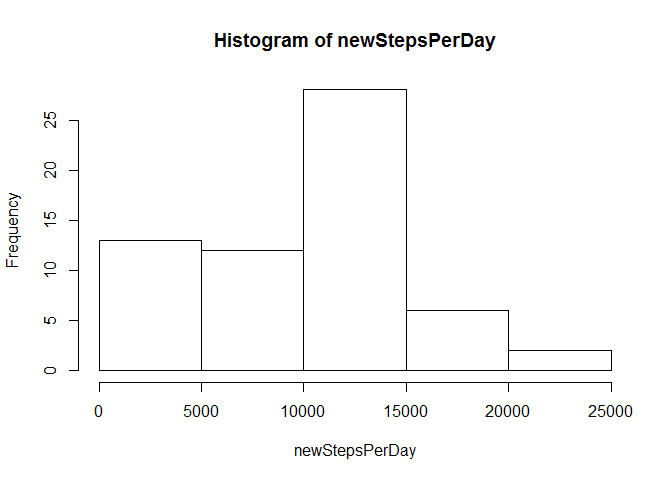
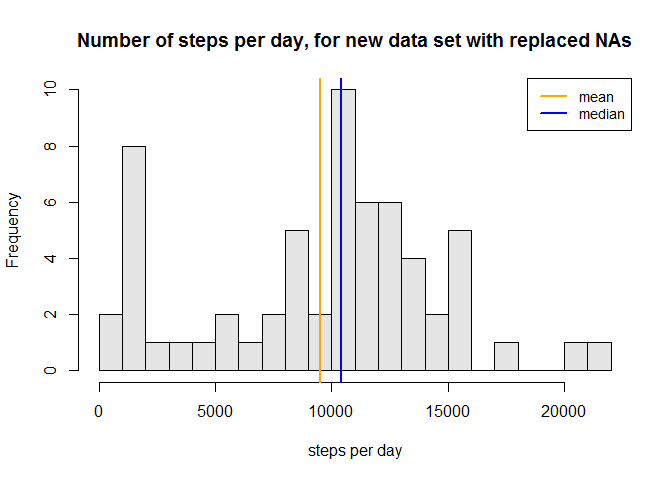
changed the last panel plot

diff --git a/PA1_template.html b/PA1_template.html
@@ -68,11 +68,11 @@ img {
 <h2>Loading and preprocessing the data</h2>
 <div id="download-unzip-file-write-the-access-date-and-time" class="section level4">
 <h4>Download, unzip file, write the access date and time</h4>
-<p><a href="https://d396qusza40orc.cloudfront.net/repdata%2Fdata%2Factivity.zip">URL for downloading the data</a><br />Data for this report was downloaded: Sat Apr 18 18:25:07 2015</p>
+<p><a href="https://d396qusza40orc.cloudfront.net/repdata%2Fdata%2Factivity.zip">URL for downloading the data</a><br />Data for this report was downloaded: Tue May 12 09:42:09 2015</p>
 </div>
 <div id="read-csv-file" class="section level4">
 <h4>read CSV file</h4>
-<pre class="r"><code>unzip(&quot;activity.zip&quot;)
+<pre class="r"><code>unzip(&quot;repdata_data_activity.zip&quot;)
 givenData&lt;-read.csv(file=&quot;activity.csv&quot;)</code></pre>
 </div>
 </div>
@@ -84,8 +84,11 @@ givenData&lt;-read.csv(file=&quot;activity.csv&quot;)</code></pre>
 </div>
 <div id="make-a-histogram-of-the-total-number-of-steps-taken-each-day" class="section level4">
 <h4>Make a histogram of the total number of steps taken each day</h4>
-<pre class="r"><code>hist(stepsPerDay)</code></pre>
[1 lines of base64/hex data omitted]
+<pre class="r"><code>hist(stepsPerDay, xlab=&quot;steps per day&quot;, breaks=20, col=&quot;grey90&quot;, main=&quot;Total number of steps taken each day&quot;)
+abline(v=mean(stepsPerDay, na.rm=T), lwd=2, col=&quot;orange&quot;)
+abline(v=median(stepsPerDay, na.rm=T), lwd=2, col=&quot;blue&quot;)
+legend(&quot;topright&quot;, lwd=2, cex=.9, col=c(&quot;orange&quot;, &quot;blue&quot;), legend=c(&quot;mean&quot;, &quot;median&quot;))</code></pre>
[1 lines of base64/hex data omitted]
 </div>
 <div id="calculate-the-mean-and-median-of-the-total-number-of-steps-taken-per-day" class="section level4">
 <h4>Calculate the mean and median of the total number of steps taken per day</h4>
@@ -122,8 +125,9 @@ for (i in 1:nrow(givenData)) {
 }</code></pre>
 <p>Total number of missing values in dataset: <strong>2304</strong>.</p>
 </div>
-<div id="create-a-new-dataset-that-is-equal-to-the-original-dataset-but-with-the-missing-data-filled-in.-each-missing-value-will-be-replaced-with-median-value-for-this-5-minute-interval-because-mediana-doesnt-include-maximum-and-minimum-values" class="section level4">
-<h4>Create a new dataset that is equal to the original dataset but with the missing data filled in. Each missing value will be replaced with median value for this 5-minute interval, because mediana doesn’t include maximum and minimum values</h4>
+<div id="create-a-new-dataset-that-is-equal-to-the-original-dataset-but-with-the-missing-data-filled-in." class="section level4">
+<h4>Create a new dataset that is equal to the original dataset but with the missing data filled in.</h4>
+<p>Each missing value will be replaced with median value for this 5-minute interval, because mediana doesn’t depend on extreme values that can be caused by unusual circumstances.</p>
 <pre class="r"><code>medianStepsByInterval&lt;-tapply(givenData$steps, givenData$interval, median, na.rm=T)
 newDF&lt;-givenData
 
@@ -145,9 +149,12 @@ newMedianSteps&lt;-median(newStepsPerDay)</code></pre>
 <li>The mean of the total number of steps taken per day: <strong>9503.8688525</strong>.<br /></li>
 <li>The median of the total number of steps taken per day: <strong>10395</strong>.</li>
 </ul>
-<p>Make a histogram of the total number of steps taken each day.</p>
-<pre class="r"><code>hist(newStepsPerDay)</code></pre>
[1 lines of base64/hex data omitted]
+<p>Make a histogram of the total number of steps taken each day for new data set with replaced missing values.</p>
+<pre class="r"><code>hist(newStepsPerDay, breaks=20, col=&quot;grey90&quot;, main=&quot;Number of steps per day, for new data set with replaced NAs&quot;, xlab=&quot;steps per day&quot;)
+abline(v=newMeanSteps, lwd=2, col=&quot;orange&quot;)
+abline(v=newMedianSteps, lwd=2, col=&quot;blue&quot;)
+legend(&quot;topright&quot;, lwd=2, cex=.9, col=c(&quot;orange&quot;, &quot;blue&quot;), legend=c(&quot;mean&quot;, &quot;median&quot;))</code></pre>
[1 lines of base64/hex data omitted]
 </div>
 <div id="do-new-values-differ-from-the-estimates-from-the-first-part-of-the-report-what-is-the-impact-of-imputing-missing-data-on-the-estimates-of-the-total-daily-number-of-steps" class="section level4">
 <h4>Do new values differ from the estimates from the first part of the report? What is the impact of imputing missing data on the estimates of the total daily number of steps?</h4>
@@ -167,11 +174,30 @@ dayType&lt;-as.factor(dayType)
 levels(dayType)&lt;-c(&quot;weekday&quot;,&quot;weekend&quot;)</code></pre>
 <p>Add new column to dataset</p>
 <pre class="r"><code>newDF$dayType&lt;-dayType</code></pre>
-<p>Make a panel plot containing a time series plot of the 5-minute interval (x-axis) and the average number of steps taken, averaged across all weekday days or weekend days (y-axis).</p>
+<div id="make-a-panel-plot-containing-a-time-series-plot-of-the-5-minute-interval-x-axis-and-the-average-number-of-steps-taken-averaged-across-all-weekday-days-or-weekend-days-y-axis." class="section level4">
+<h4>Make a panel plot containing a time series plot of the 5-minute interval (x-axis) and the average number of steps taken, averaged across all weekday days or weekend days (y-axis).</h4>
+<p>Construct data frame with information need for making a plot.</p>
+<pre class="r"><code>#list of two data frames: data for weekdays are separeted from data for weekends
+splittedByDaytype&lt;-split(newDF, newDF$dayType)  
+
+#operate separetly with data frame for weekdays and data frame for weekends, find average number of steps per interval
+weekdaysData&lt;-splittedByDaytype[[1]]
+weekendsData&lt;-splittedByDaytype[[2]]
+weekdaysData&lt;-tapply(weekdaysData$steps, weekdaysData$interval, mean)
+weekendsData&lt;-tapply(weekendsData$steps, weekendsData$interval, mean)
+
+#constructing factor variable for types of days
+dayType&lt;-rep(&quot;weekday&quot;, length(weekdaysData))
+dayType&lt;-c(dayType, rep(&quot;weekend&quot;, length(weekendsData)))
+
+#construct new data frame which contains 3 variables needed for making plots
+stepsPerIntervalByDaytype&lt;-data.frame(interval=as.integer(c(names(weekdaysData), names(weekendsData))), averageSteps=as.numeric(c(weekdaysData, weekendsData)), dayType=as.factor(dayType))</code></pre>
+<p>Make a panel plot.</p>
 <pre class="r"><code>library(lattice)
-xyplot(steps~interval|dayType, data=newDF, type=&quot;l&quot;,layout = c(1, 2))</code></pre>
[1 lines of base64/hex data omitted]
+xyplot(averageSteps~interval|dayType, data=stepsPerIntervalByDaytype, type=&quot;l&quot;,layout = c(1, 2))</code></pre>
[1 lines of base64/hex data omitted]
 <p>On the whole periods of activity are roughly the same. But weekdays are more intensive. In accordance to the graphics there were some weekdays with large number of steps in the morning, and time between 750 and 1000 is often very active unlike the same perion on the weekend.</p>
+</div>
 </div>
 
 

diff --git a/PA1_template.md b/PA1_template.md
@@ -8,12 +8,12 @@
 ####Download, unzip file, write the access date and time
 
 [URL for downloading the data](https://d396qusza40orc.cloudfront.net/repdata%2Fdata%2Factivity.zip)  
-Data for this report was downloaded: Sat Apr 18 18:25:07 2015
+Data for this report was downloaded: Tue May 12 09:42:09 2015
 
 ####read CSV file
 
 ```r
-unzip("activity.zip")
+unzip("repdata_data_activity.zip")
 givenData<-read.csv(file="activity.csv")
 ```
 
@@ -31,7 +31,10 @@ stepsPerDay<-tapply(givenData$steps, givenData$date, sum, na.rm=T)
 ####Make a histogram of the total number of steps taken each day
 
 ```r
-hist(stepsPerDay)
+hist(stepsPerDay, xlab="steps per day", breaks=20, col="grey90", main="Total number of steps taken each day")
+abline(v=mean(stepsPerDay, na.rm=T), lwd=2, col="orange")
+abline(v=median(stepsPerDay, na.rm=T), lwd=2, col="blue")
+legend("topright", lwd=2, cex=.9, col=c("orange", "blue"), legend=c("mean", "median"))
 ```
 
 ![](PA1_template_files/figure-html/totalStepsHistogram-1.png) 
@@ -83,7 +86,8 @@ for (i in 1:nrow(givenData)) {
 ```
 Total number of missing values in dataset: **2304**.
 
-####Create a new dataset that is equal to the original dataset but with the missing data filled in. Each missing value will be replaced with median value for this 5-minute interval, because mediana doesn't include maximum and minimum values
+####Create a new dataset that is equal to the original dataset but with the missing data filled in. 
+Each missing value will be replaced with median value for this 5-minute interval, because mediana doesn't depend on extreme values that can be caused by unusual circumstances.  
 
 ```r
 medianStepsByInterval<-tapply(givenData$steps, givenData$interval, median, na.rm=T)
@@ -113,10 +117,13 @@ newMedianSteps<-median(newStepsPerDay)
 - The mean of the total number of steps taken per day: **9503.8688525**.  
 - The median of the total number of steps taken per day: **10395**.
 
-Make a histogram of the total number of steps taken each day.
+Make a histogram of the total number of steps taken each day for new data set with replaced missing values.
 
 ```r
-hist(newStepsPerDay)
+hist(newStepsPerDay, breaks=20, col="grey90", main="Number of steps per day, for new data set with replaced NAs", xlab="steps per day")
+abline(v=newMeanSteps, lwd=2, col="orange")
+abline(v=newMedianSteps, lwd=2, col="blue")
+legend("topright", lwd=2, cex=.9, col=c("orange", "blue"), legend=c("mean", "median"))
 ```
 
 ![](PA1_template_files/figure-html/newTotalStepsHistogram-1.png) 
@@ -148,12 +155,36 @@ Add new column to dataset
 newDF$dayType<-dayType
 ```
 
+  
+  
+####Make a panel plot containing a time series plot of the 5-minute interval (x-axis) and the average number of steps taken, averaged across all weekday days or weekend days (y-axis).  
 
-Make a panel plot containing a time series plot of the 5-minute interval (x-axis) and the average number of steps taken, averaged across all weekday days or weekend days (y-axis).
+Construct data frame with information need for making a plot.
+
+```r
+#list of two data frames: data for weekdays are separeted from data for weekends
+splittedByDaytype<-split(newDF, newDF$dayType)  
+
+#operate separetly with data frame for weekdays and data frame for weekends, find average number of steps per interval
+weekdaysData<-splittedByDaytype[[1]]
+weekendsData<-splittedByDaytype[[2]]
+weekdaysData<-tapply(weekdaysData$steps, weekdaysData$interval, mean)
+weekendsData<-tapply(weekendsData$steps, weekendsData$interval, mean)
+
+#constructing factor variable for types of days
+dayType<-rep("weekday", length(weekdaysData))
+dayType<-c(dayType, rep("weekend", length(weekendsData)))
+
+#construct new data frame which contains 3 variables needed for making plots
+stepsPerIntervalByDaytype<-data.frame(interval=as.integer(c(names(weekdaysData), names(weekendsData))), averageSteps=as.numeric(c(weekdaysData, weekendsData)), dayType=as.factor(dayType))
+```
+  
+  
+  Make a panel plot.
 
 ```r
 library(lattice)
-xyplot(steps~interval|dayType, data=newDF, type="l",layout = c(1, 2))
+xyplot(averageSteps~interval|dayType, data=stepsPerIntervalByDaytype, type="l",layout = c(1, 2))
 ```
 
 ![](PA1_template_files/figure-html/panelplotForWeekdaysWeekends-1.png) 
